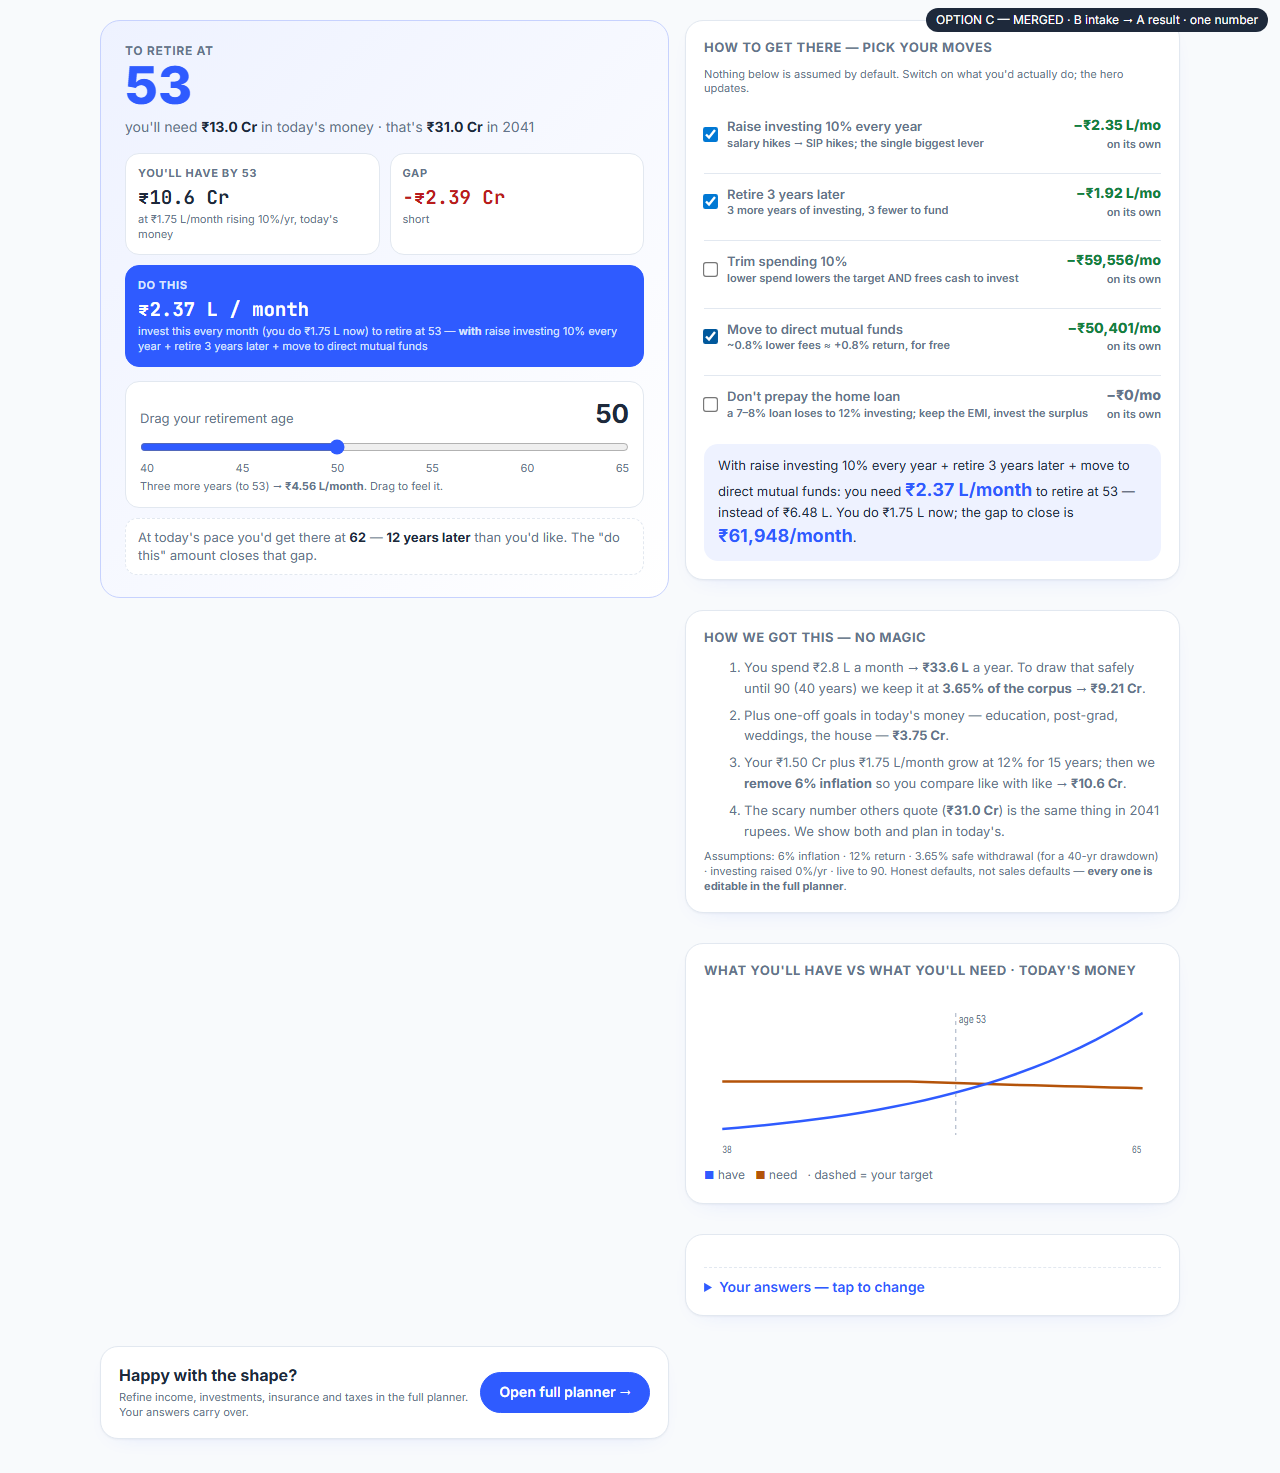
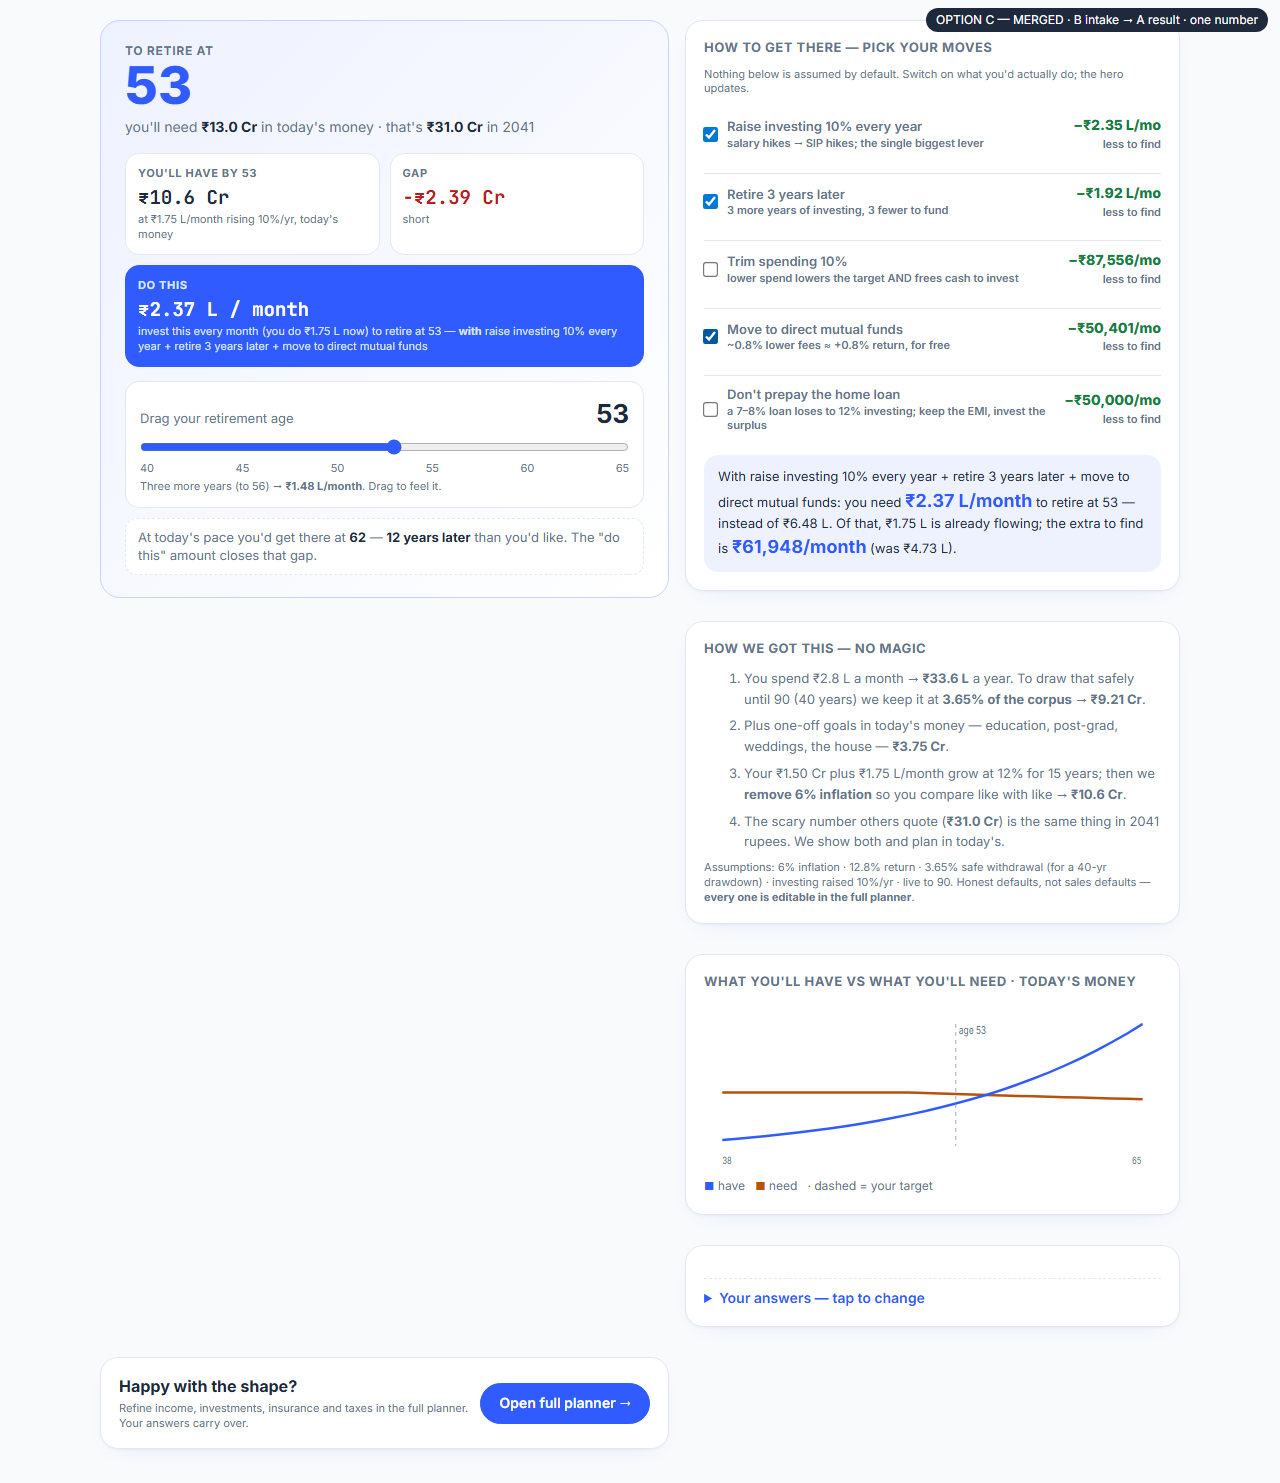
docs(design): lever card fixes — effect = 'less to find' (required minus already investing), plan-aware assumptions line, slider syncs with the delay lever
Claude-Session: https://claude.ai/code/session_01PiqGZ8w4L1igPHy7bza2SS

diff --git a/docs/design/2026-08-27-quick-number-gap-hero/option-c-merged.html b/docs/design/2026-08-27-quick-number-gap-hero/option-c-merged.html
@@ -107,14 +107,14 @@ function render(){
   const base=FK.compute(i), yr=new Date().getFullYear();
   const pi=FK.applyPlan(i,on), r=FK.compute(pi);            // plan-adjusted view drives the hero
   const planOn=on.size>0, names=FK.LEVERS.filter(l=>on.has(l.key)).map(l=>l.label.toLowerCase());
-  $("tAge").textContent=pi.targetAge; $("sv").textContent=i.targetAge; $("sl").value=i.targetAge; $("hAge").textContent=pi.targetAge;
+  $("tAge").textContent=pi.targetAge; $("sv").textContent=pi.targetAge; $("sl").value=pi.targetAge; $("hAge").textContent=pi.targetAge;
   $("needTop").textContent=FK.inr(r.needReal); $("needNom").textContent=FK.inr(r.needNominal); $("needYear").textContent=yr+r.n;
   $("have").textContent=FK.inr(r.haveReal); $("haveSub").textContent=`at ${FK.inr(pi.sip)}/month${pi.stepUp>0?` rising ${Math.round(pi.stepUp*100)}%/yr`:""}, today's money`;
   const short=r.gapReal>0; $("gap").textContent=(short?"−":"+")+FK.inr(Math.abs(r.gapReal)); $("gap").className="v mono "+(short?"bad":"ok"); $("gapSub").textContent=short?"short":"surplus";
   $("req").textContent=short?FK.inr(r.requiredSip)+" / month":"You're already there";
   $("reqSub").innerHTML=short?`invest this every month (you do ${FK.inr(i.sip)} now) to retire at ${pi.targetAge}${planOn?` — <b>with</b> ${names.join(" + ")}`:""}`:`your current ${FK.inr(i.sip)}/month is enough for ${pi.targetAge}${planOn?` with ${names.join(" + ")}`:""}`;
-  const alt=FK.compute({...i,targetAge:i.targetAge+3});
-  $("slHint").innerHTML=`Three more years (to ${i.targetAge+3}) → <b>${FK.inr(alt.requiredSip)}/month</b>. Drag to feel it.`;
+  const alt=FK.compute({...pi,targetAge:pi.targetAge+3});
+  $("slHint").innerHTML=`Three more years (to ${pi.targetAge+3}) → <b>${FK.inr(alt.requiredSip)}/month</b>. Drag to feel it.`;
   const pace=base.fireAge; $("pace").innerHTML = pace==null ? `At today's pace you would <b>not</b> reach this number before 90 — the "do this" amount closes that.` :
     pace<=i.targetAge ? `At today's pace you'd get there by <b>${pace}</b> — ${i.targetAge-pace} years early.` :
     `At today's pace you'd get there at <b>${pace}</b> — <b>${pace-i.targetAge} years later</b> than you'd like. The "do this" amount closes that gap.`;
@@ -124,13 +124,14 @@ function render(){
     `Your ${FK.inr(i.corpus+(i.includeSpouse?i.spouseCorpus:0))} plus ${FK.inr(i.sip)}/month grow at ${+(i.equityReturn*100).toFixed(0)}% for ${r.n} years; then we <b>remove ${+(i.inflation*100).toFixed(0)}% inflation</b> so you compare like with like → <b>${FK.inr(r.haveReal)}</b>.`,
     `The scary number others quote (<b>${FK.inr(r.needNominal)}</b>) is the same thing in ${yr+r.n} rupees. We show both and plan in today's.`
   ].map(t=>`<li>${t}</li>`).join("");
-  $("assump").textContent=`${+(i.inflation*100).toFixed(1)}% inflation · ${+(i.equityReturn*100).toFixed(1)}% return · ${+(r.swrUsed*100).toFixed(2)}% safe withdrawal (for a ${90-i.targetAge}-yr drawdown) · investing raised ${+(i.stepUp*100).toFixed(0)}%/yr`;
-  $("levers").innerHTML=FK.LEVERS.map(l=>{const one=FK.compute(l.apply(i)); const d=base.requiredSip-one.requiredSip;
-    return `<label class="lever"><input type="checkbox" data-k="${l.key}" ${on.has(l.key)?"checked":""}><span>${l.label}<div class="n">${l.note}</div></span><span class="fx"><b class="${d>0?"ok":"mut"}">−${FK.inr(Math.max(0,d))}/mo</b><span class="n">on its own</span></span></label>`;}).join("");
+  $("assump").textContent=`${+(i.inflation*100).toFixed(1)}% inflation · ${+(pi.equityReturn*100).toFixed(1)}% return · ${+(r.swrUsed*100).toFixed(2)}% safe withdrawal (for a ${90-i.targetAge}-yr drawdown) · investing raised ${+(pi.stepUp*100).toFixed(0)}%/yr`;
+  const toFind=(inp,res)=>Math.max(0,res.requiredSip-inp.sip);           // "gap to close" = required − already investing
+  $("levers").innerHTML=FK.LEVERS.map(l=>{const li=l.apply(i), one=FK.compute(li); const d=toFind(i,base)-toFind(li,one);
+    return `<label class="lever"><input type="checkbox" data-k="${l.key}" ${on.has(l.key)?"checked":""}><span>${l.label}<div class="n">${l.note}</div></span><span class="fx"><b class="${d>0?"ok":"mut"}">−${FK.inr(Math.max(0,d))}/mo</b><span class="n">less to find</span></span></label>`;}).join("");
   document.querySelectorAll("#levers input").forEach(c=>c.onchange=()=>{c.checked?on.add(c.dataset.k):on.delete(c.dataset.k);render();});
   $("plansum").innerHTML = !planOn ? `Switch on a few moves to see the number you can actually live with.` :
     r.requiredSip<=i.sip ? `With ${names.join(" + ")}: your current <b>${FK.inr(i.sip)}/month</b> is enough to retire at <b>${pi.targetAge}</b>.` :
-    `With ${names.join(" + ")}: you need <b>${FK.inr(r.requiredSip)}/month</b> to retire at ${pi.targetAge} — instead of ${FK.inr(base.requiredSip)}. You do ${FK.inr(i.sip)} now; the gap to close is <b>${FK.inr(r.requiredSip-i.sip)}/month</b>.`;
+    `With ${names.join(" + ")}: you need <b>${FK.inr(r.requiredSip)}/month</b> to retire at ${pi.targetAge} — instead of ${FK.inr(base.requiredSip)}. Of that, ${FK.inr(pi.sip)} is already flowing${pi.sip>i.sip?" (incl. the cash these moves free up)":""}; the extra to find is <b>${FK.inr(toFind(pi,r))}/month</b>${toFind(pi,r)<toFind(i,base)?` (was ${FK.inr(toFind(i,base))})`:""}.`;
   $("rows").innerHTML=[["Age",i.age],["Spend / month",FK.inr(i.spend)],["All investments",FK.inr(i.corpus)],["Spouse savings",i.includeSpouse?FK.inr(i.spouseCorpus):"—"],["Investing / month",FK.inr(i.sip)],["Kids",`${i.kids} · age ${i.kidsAge}`],["Education",FK.inr(i.education)],["Post-grad",FK.inr(i.postgrad)],["Weddings",FK.inr(i.wedding)],["Big purchase",i.includeHouse?FK.inr(i.house):"—"]].map(([k,v])=>`<span>${k}</span><b>${v}</b>`).join("");
   chart(r);
 }
@@ -140,7 +141,7 @@ function chart(r){
   const x=a=>P+(a-a0)/(a1-a0)*(W-2*P), y=v=>H-P-(v/maxV)*(H-2*P), line=(k,col)=>`<polyline fill="none" stroke="${col}" stroke-width="2.5" points="${pts.map(p=>x(p.a)+","+y(p[k])).join(" ")}"/>`;
   svg.innerHTML=line("need","#b45309")+line("have","#2F5BFF")+`<line x1="${x(pi.targetAge)}" x2="${x(pi.targetAge)}" y1="${P}" y2="${H-P}" stroke="#94a3b8" stroke-dasharray="4 4"/><text x="${x(pi.targetAge)+4}" y="${P+10}" font-size="11" fill="#64748b">age ${pi.targetAge}</text><text x="${P}" y="${H-6}" font-size="10" fill="#64748b">${a0}</text><text x="${W-P-14}" y="${H-6}" font-size="10" fill="#64748b">${a1}</text>`;
 }
-$("sl").oninput=e=>{i.targetAge=+e.target.value;render();};
+$("sl").oninput=e=>{i.targetAge=+e.target.value-(on.has("delay")?3:0);render();};
 $("reopen").onclick=()=>{s=0;$("result").style.display="none";$("intake").style.display="";draw();};
 $("next").onclick=()=>{s++;draw();}; $("back").onclick=()=>{s=Math.max(0,s-1);draw();};
 draw();
